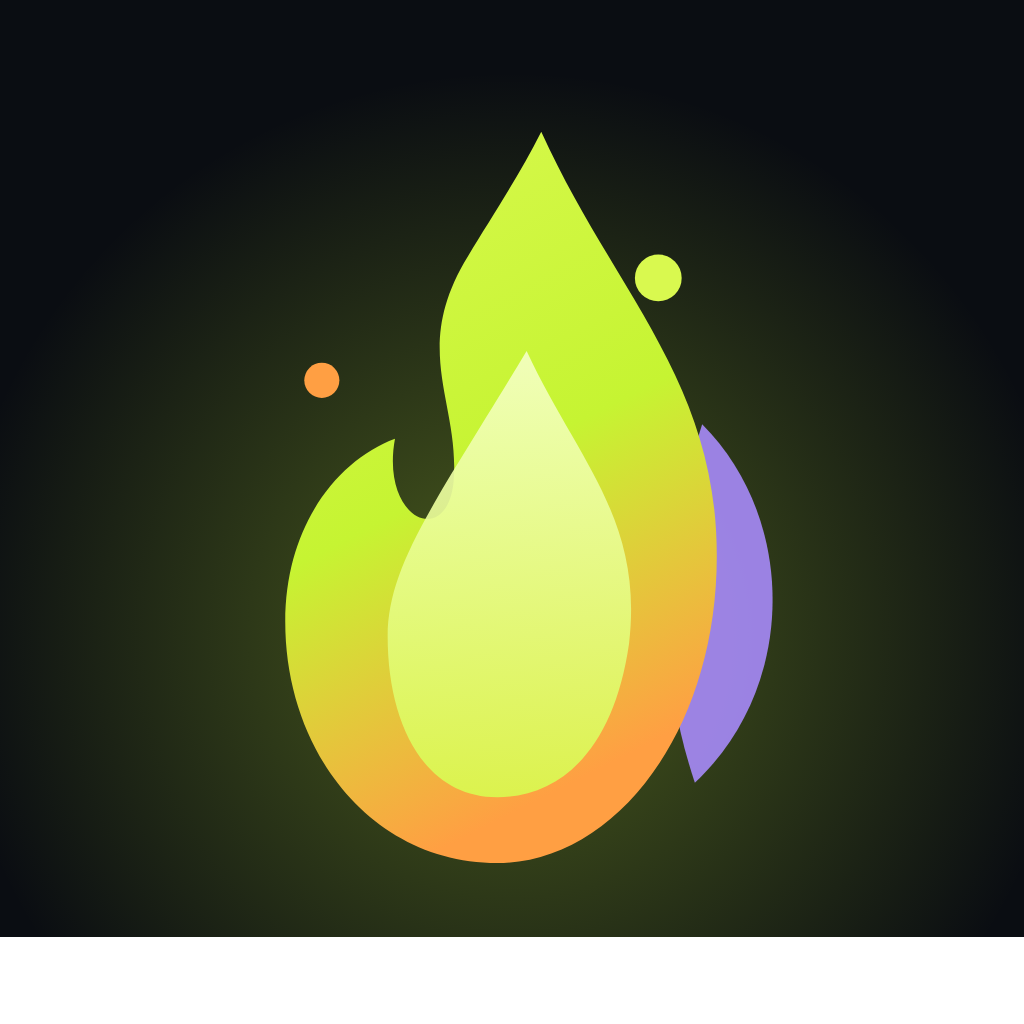
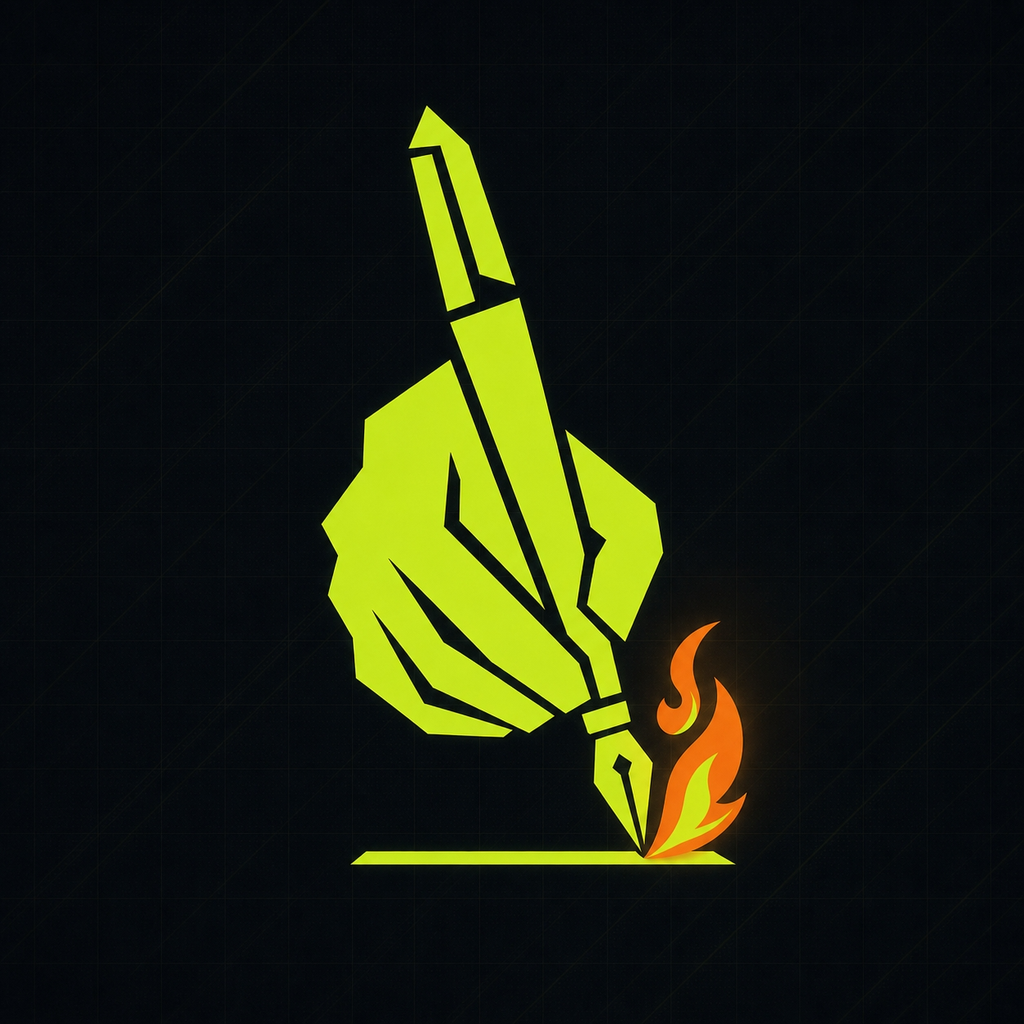
生成アート18枚を導入し、アイコンと各画面に組み込み
- アップロードされた18枚を用途別にリネームし、アプリ用に最適化（35MB→13MB）。
  暗い背景を透過処理して、アプリ背景に四角い縁が出ないように調整
- アイコン刷新: icon / adaptive-icon / splash / favicon を新ロゴ（ペンを握る手＋炎）へ
- Art.tsx を追加し、アートを名前で呼び出せるように一元管理
- 画面へ配置:
  オンボーディング=開いた本と炎 / 火がつく演出=炎の爆発 /
  試験カウントダウン=砂時計 / 学習メモ=ろうそく・空状態は残り火 /
  シーズン完了=山頂の旗 / ランクのヒーロー=月桂冠メダル /
  週次=階段の背景・積み上げ本・鎖 / 仲間の空状態=燃える鎖

Claude-Session: https://claude.ai/code/session_01DbHM8ejunQ1WheZJQagAui

diff --git a/app/(tabs)/weekly.tsx b/app/(tabs)/weekly.tsx
@@ -3,6 +3,7 @@ import { View, Text, StyleSheet, ScrollView } from 'react-native';
 import { Ionicons } from '@expo/vector-icons';
 import { useApp } from '@/context/AppContext';
 import { ProgressBar } from '@/components/ProgressBar';
+import { Art } from '@/components/Art';
 import { colors, font, labelStyle, spacing } from '@/theme';
 import { compareDate, todayStr } from '@/logic/date';
 import { buildStudyStats } from '@/logic/stats';
@@ -41,6 +42,7 @@ export default function WeeklyScreen() {
     >
       {/* コミット額（案C: お金は預からない） */}
       <View style={styles.poolCard}>
+        <Art name="bgStairs" size={130} style={styles.poolArt} opacity={0.13} />
         <View style={styles.poolHead}>
           <Ionicons name="flag" size={18} color={colors.primary} />
           <Text style={styles.poolLabel}>コミット額（お金は預かりません）</Text>
@@ -70,7 +72,10 @@ export default function WeeklyScreen() {
       {/* 勉強時間の推移（直近14日） */}
       <View style={styles.statCard}>
         <View style={styles.statHead}>
-          <Text style={styles.statTitle}>勉強時間の推移</Text>
+          <View style={styles.statTitleRow}>
+            <Art name="books" size={26} />
+            <Text style={styles.statTitle}>勉強時間の推移</Text>
+          </View>
           <Text style={styles.statSub}>直近14日</Text>
         </View>
 
@@ -124,7 +129,10 @@ export default function WeeklyScreen() {
       {/* 曜日別の分析 */}
       <View style={styles.statCard}>
         <View style={styles.statHead}>
-          <Text style={styles.statTitle}>曜日別の平均</Text>
+          <View style={styles.statTitleRow}>
+            <Art name="chain" size={26} />
+            <Text style={styles.statTitle}>曜日別の平均</Text>
+          </View>
           <Text style={styles.statSub}>クセを知る</Text>
         </View>
 
@@ -257,14 +265,17 @@ const styles = StyleSheet.create({
   },
   emptyText: { fontSize: font.body, color: colors.textSub },
 
+  poolArt: { position: 'absolute', right: -14, top: -10, zIndex: 0 },
+  statTitleRow: { flexDirection: 'row', alignItems: 'center', gap: 8 },
   poolCard: {
+    overflow: 'hidden',
     backgroundColor: colors.surface,
     borderWidth: 1,
     borderColor: colors.border,
     borderRadius: 20,
     padding: 18,
   },
-  poolHead: { flexDirection: 'row', alignItems: 'center', gap: 8 },
+  poolHead: { flexDirection: 'row', alignItems: 'center', gap: 8, zIndex: 1 },
   poolLabel: { ...labelStyle, color: colors.textSub },
   poolAmountRow: { flexDirection: 'row', alignItems: 'baseline', gap: 8, marginTop: 8 },
   poolRemaining: {

diff --git a/src/components/Art.tsx b/src/components/Art.tsx
@@ -1,0 +1,84 @@
+import React from 'react';
+import { Image, ImageStyle, StyleProp, View, ViewStyle, StyleSheet } from 'react-native';
+
+/**
+ * ブランドアート（生成イラスト）の一元管理。
+ * 画面からは <Art name="book" size={120} /> のように名前で呼ぶ。
+ * ここに足せば全画面から使えるようになる。
+ */
+const ART = {
+  book: require('../../assets/art-book.png'),
+  books: require('../../assets/art-books.png'),
+  hourglass: require('../../assets/art-hourglass.png'),
+  candle: require('../../assets/art-candle.png'),
+  summit: require('../../assets/art-summit.png'),
+  arrow: require('../../assets/art-arrow.png'),
+  medal: require('../../assets/art-medal.png'),
+  gear: require('../../assets/art-gear.png'),
+  chain: require('../../assets/art-chain.png'),
+  ember: require('../../assets/art-ember.png'),
+  burst: require('../../assets/art-burst.png'),
+  banner: require('../../assets/banner-sunrise.png'),
+  bgDesk: require('../../assets/bg-desk.png'),
+  bgStairs: require('../../assets/bg-stairs.png'),
+  bgPillar: require('../../assets/bg-pillar.png'),
+} as const;
+
+export type ArtName = keyof typeof ART;
+
+/** 正方形のアートを表示する（背景と馴染むよう contain 表示） */
+export function Art({
+  name,
+  size = 120,
+  style,
+  opacity = 1,
+}: {
+  name: ArtName;
+  size?: number;
+  style?: StyleProp<ImageStyle>;
+  opacity?: number;
+}) {
+  return (
+    <Image
+      source={ART[name]}
+      style={[{ width: size, height: size, opacity }, style]}
+      resizeMode="contain"
+    />
+  );
+}
+
+/**
+ * 背景としてアートを敷く（コンテンツの背後・薄く）。
+ * children がその上に乗る。
+ */
+export function ArtBackdrop({
+  name,
+  children,
+  opacity = 0.16,
+  style,
+  imageStyle,
+}: {
+  name: ArtName;
+  children?: React.ReactNode;
+  opacity?: number;
+  style?: StyleProp<ViewStyle>;
+  imageStyle?: StyleProp<ImageStyle>;
+}) {
+  return (
+    <View style={[styles.wrap, style]}>
+      <View style={StyleSheet.absoluteFill} pointerEvents="none">
+        <Image
+          source={ART[name]}
+          style={[StyleSheet.absoluteFillObject, { opacity }, imageStyle]}
+          resizeMode="cover"
+        />
+      </View>
+      <View style={styles.content}>{children}</View>
+    </View>
+  );
+}
+
+const styles = StyleSheet.create({
+  wrap: { position: 'relative', overflow: 'hidden' },
+  content: { position: 'relative', zIndex: 2 },
+});

diff --git a/app/(tabs)/index.tsx b/app/(tabs)/index.tsx
@@ -17,6 +17,7 @@ import { PrimaryButton } from '@/components/PrimaryButton';
 import { ProgressRing } from '@/components/ProgressRing';
 import { AchievementGrid } from '@/components/AchievementGrid';
 import { Logo } from '@/components/Logo';
+import { Art } from '@/components/Art';
 import { colors, font, labelStyle, radius, spacing } from '@/theme';
 import { categoryOf } from '@/logic/category';
 import { frequencyLabel } from '@/logic/schedule';
@@ -72,7 +73,7 @@ export default function HomeScreen() {
     return (
       <SafeAreaView style={styles.safe} edges={['top', 'bottom']}>
         <ScrollView contentContainerStyle={styles.welcomeWrap} showsVerticalScrollIndicator={false}>
-          <Logo size={132} />
+          <Art name="book" size={190} />
           <Text style={styles.brandName}>覚悟の勉強</Text>
           <Text style={styles.emptyTitle}>心を燃やせ。</Text>
           <Text style={styles.welcomeLead}>
@@ -127,9 +128,7 @@ export default function HomeScreen() {
                 {allPerfect ? '完全達成、あっぱれ！' : '4週間、走りきった。'}
               </Text>
             </View>
-            <View style={styles.completeTrophy}>
-              <Ionicons name="trophy" size={26} color={colors.primary} />
-            </View>
+            <Art name="summit" size={72} />
           </View>
 
           {/* 成績サマリー */}
@@ -240,7 +239,7 @@ export default function HomeScreen() {
                   </View>
                 </View>
                 <View style={styles.examRight}>
-                  <Ionicons name="flag" size={18} color={colors.primary} />
+                  <Art name="hourglass" size={44} />
                   <Text style={styles.examDate}>{formatDisplay(exam.date)}</Text>
                 </View>
               </View>
@@ -366,9 +365,7 @@ export default function HomeScreen() {
         <Pressable onPress={() => router.push('/journal')}>
           <Card>
             <View style={styles.memoRow}>
-              <View style={styles.memoIcon}>
-                <Ionicons name="create" size={20} color={colors.primary} />
-              </View>
+              <Art name="candle" size={42} />
               <View style={{ flex: 1 }}>
                 <Text style={styles.memoTitle}>学習メモ</Text>
                 <Text style={styles.memoPreview} numberOfLines={1}>

diff --git a/app/journal.tsx b/app/journal.tsx
@@ -13,6 +13,7 @@ import { Stack } from 'expo-router';
 import { Ionicons } from '@expo/vector-icons';
 import { useApp } from '@/context/AppContext';
 import { PrimaryButton } from '@/components/PrimaryButton';
+import { Art } from '@/components/Art';
 import { colors, font, radius, spacing } from '@/theme';
 import { todayStr, formatDisplay } from '@/logic/date';
 import { formatMinutes } from '@/logic/time';
@@ -80,9 +81,7 @@ export default function JournalScreen() {
                 {!isToday ? ` ・ ${formatDisplay(selected)}` : ''}
               </Text>
             </View>
-            <View style={styles.penBadge}>
-              <Ionicons name="create" size={18} color={colors.primary} />
-            </View>
+            <Art name="candle" size={46} />
           </View>
 
           <TextInput
@@ -128,7 +127,7 @@ export default function JournalScreen() {
         <Text style={styles.sectionLabel}>これまでの記録</Text>
         {history.length === 0 ? (
           <View style={styles.empty}>
-            <Ionicons name="book-outline" size={40} color={colors.textMuted} />
+            <Art name="ember" size={120} opacity={0.9} />
             <Text style={styles.emptyText}>
               まだ記録がありません。{'\n'}勉強したら、その日のメモを残そう。
             </Text>

diff --git a/app/(tabs)/social.tsx b/app/(tabs)/social.tsx
@@ -4,6 +4,7 @@ import { LinearGradient } from 'expo-linear-gradient';
 import { Ionicons } from '@expo/vector-icons';
 import { useRouter } from 'expo-router';
 import { useApp } from '@/context/AppContext';
+import { Art } from '@/components/Art';
 import { colors, font, labelStyle, radius, spacing } from '@/theme';
 import { categoryOf } from '@/logic/category';
 import {
@@ -50,7 +51,7 @@ export default function SocialScreen() {
   if (!goal) {
     return (
       <View style={styles.center}>
-        <Ionicons name="people-outline" size={48} color={colors.textMuted} />
+        <Art name="chain" size={130} />
         <Text style={styles.emptyText}>
           目標を設定すると、同じカテゴリの{'\n'}仲間と月間ランキングで競えます。
         </Text>

diff --git a/app/ignite.tsx b/app/ignite.tsx
@@ -1,8 +1,8 @@
 import React, { useEffect, useRef } from 'react';
 import { View, Text, StyleSheet, Animated, Easing, Dimensions } from 'react-native';
 import { useRouter } from 'expo-router';
-import { Ionicons } from '@expo/vector-icons';
 import { useApp } from '@/context/AppContext';
+import { Art } from '@/components/Art';
 import { colors, font, radius, spacing } from '@/theme';
 
 const { width } = Dimensions.get('window');
@@ -110,7 +110,7 @@ export default function IgniteScreen() {
 
       {/* 炎が弾けるように燃え上がる */}
       <Animated.View style={{ transform: [{ scale: mascotScale }] }}>
-        <Ionicons name="flame" size={150} color={colors.primary} />
+        <Art name="burst" size={260} />
       </Animated.View>
 
       {/* コピー */}

diff --git a/app/(tabs)/rank.tsx b/app/(tabs)/rank.tsx
@@ -9,6 +9,7 @@ import { ProgressBar } from '@/components/ProgressBar';
 import { StatTile } from '@/components/StatTile';
 import { PrimaryButton } from '@/components/PrimaryButton';
 import { RankMedal } from '@/components/RankMedal';
+import { Art } from '@/components/Art';
 import { colors, font, radius, spacing } from '@/theme';
 import {
   RANK_TIERS,
@@ -48,7 +49,7 @@ export default function RankScreen() {
     >
       {/* 現在ランクのヒーロー */}
       <FlameHero icon={null} style={styles.hero}>
-        <RankMedal rank={progress.rank} size={112} />
+        <Art name="medal" size={150} />
         <Text style={styles.heroLabel}>{progress.rank.label}</Text>
         <Text style={styles.heroPoints}>{progress.points} pt</Text>
 
